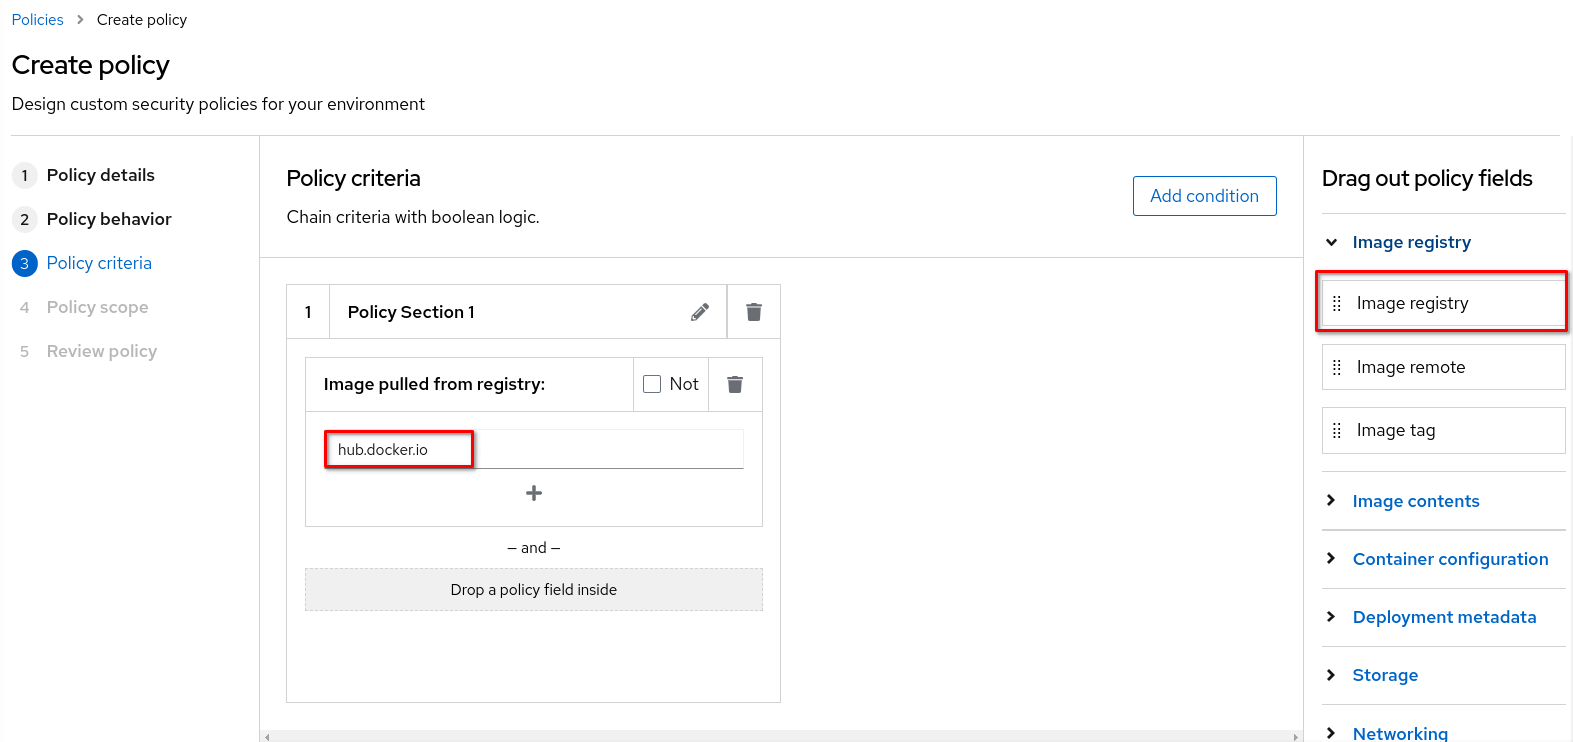
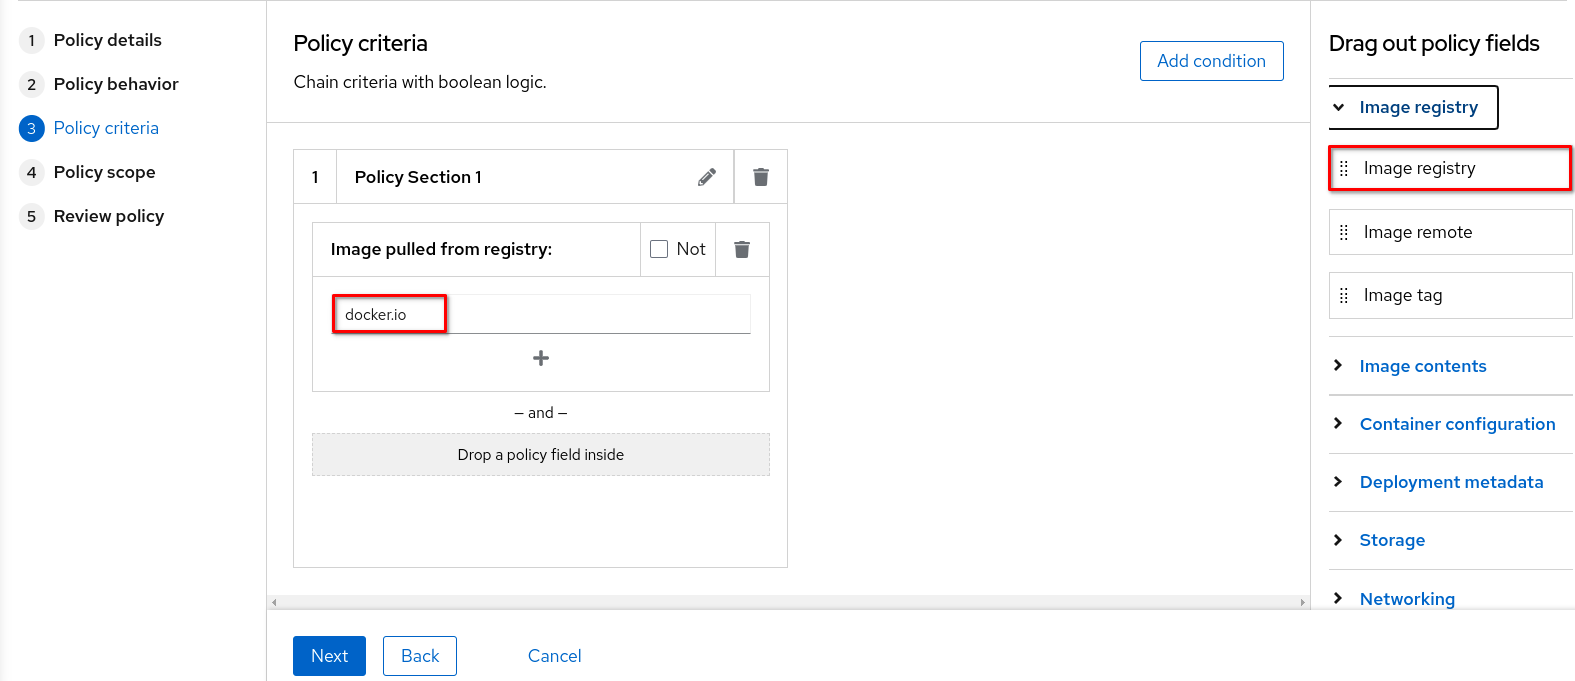
[CI] Publish Documentation for eb785ea9247f2c535fda9c0b439b8d04c9be4197 - eb785ea9247f2c535fda9c0b439b8d04c9be4197 🚀

diff --git a/acs-workshop/10-system_policies.html b/acs-workshop/10-system_policies.html
@@ -618,12 +618,12 @@ We will create an example policy for Docker Hub Registry because we dont want to
 <p>ACS comes some default policy criteria with different categories. <code>Image Registry</code> , <code>Image Contents</code> etc. Let&#8217;s lookup this criterias.You can drag and drop these criterias. For detailed information: <a href="https://docs.openshift.com/acs/3.69/operating/manage-security-policies.html#policy-criteria_manage-security-policies" class="bare">https://docs.openshift.com/acs/3.69/operating/manage-security-policies.html#policy-criteria_manage-security-policies</a></p>
 <div class="imageblock">
 <div class="content">
-<img src="_images/policies/14-policies.png" alt="ACS Policies 14" width="200">
+<img src="_images/policies/14-policies.png" alt="ACS Policies 14" width="100">
 </div>
 </div>
 </li>
 <li>
-<p>We will use <code>Image Registry</code> criteria at the <code>Image Registry</code> category as shown below.You can drag and drog and fill-up the box with <code>hub.docker.io</code></p>
+<p>We will use <code>Image Registry</code> criteria at the <code>Image Registry</code> category as shown below.You can drag and drog and fill-up the box with <code>docker.io</code></p>
 <div class="imageblock">
 <div class="content">
 <img src="_images/policies/15-policies.png" alt="ACS Policies 15" width="800">
@@ -645,6 +645,11 @@ We will create an example policy for Docker Hub Registry because we dont want to
 </li>
 <li>
 <p>For Excluded Images (Build Lifecycle only), select all images that you do not want to trigger a violation for.</p>
+<div class="imageblock">
+<div class="content">
+<img src="_images/policies/16-policies.png" alt="ACS Policies 16" width="800">
+</div>
+</div>
 </li>
 </ul>
 </div>
@@ -659,6 +664,17 @@ We will create an example policy for Docker Hub Registry because we dont want to
 <p>Click <code>Save</code></p>
 </li>
 </ol>
+</div>
+<div class="paragraph">
+<p>Now let&#8217;s check the new policy. We will try to deploy application on Openshift Console.
+. Firstly, we should find our console address.</p>
+</div>
+<div class="paragraph">
+<p>+
+image::policies/workshop.png[ACS Policies 17, 800]</p>
+</div>
+<div class="paragraph">
+<p>+</p>
 </div>
 </div>
 </div>
